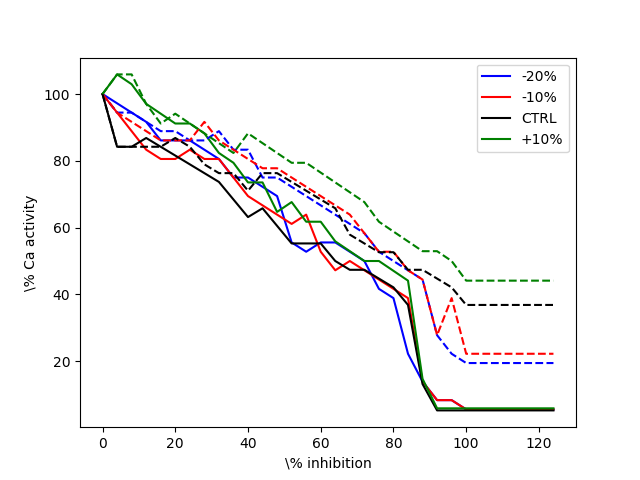
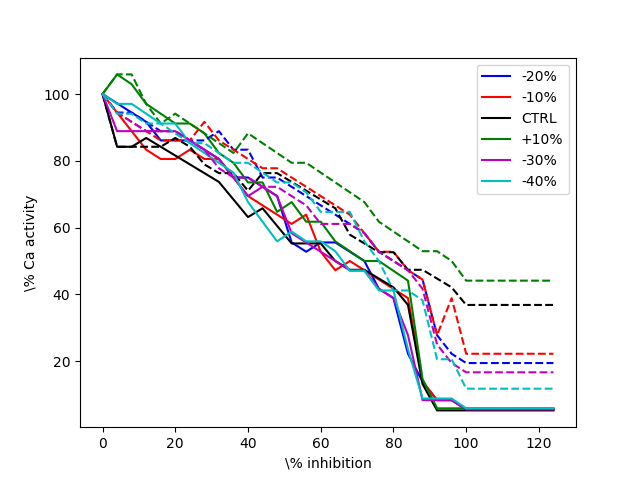
Add -30%, -40% pcaer results

diff --git a/src-test-pcaer/results-big-gj/plot.py b/src-test-pcaer/results-big-gj/plot.py
@@ -11,21 +11,25 @@ colours = {
 	'2': 'r',
 	'3': 'k',
 	'4': 'g',
+	'5': 'm',
+	'6': 'c',
 }
 labels = {
 	'1': '-20%',
 	'2': '-10%',
 	'3': 'CTRL',
 	'4': '+10%',
+	'5': '-30%',
+	'6': '-40%',
 }
 
 for f in files:
     a = np.loadtxt(f)
     a[:, 1] = a[:, 1] / a[0, 1] * 100
     f_id = f[-5]
-    if f[-6] == '2':
+    if f[-6] == '2' or f[-6] == '5':
         plt.plot(a[:, 0], a[:, 1], c=colours[f_id], label=labels[f_id])
-    elif f[-6] == '3':
+    elif f[-6] == '3' or f[-6] == '6':
         plt.plot(a[:, 0], a[:, 1], ls='--', c=colours[f_id])
     else:
         print('Not sure what you are doing!')

diff --git a/src-test-pcaer/results/plot.py b/src-test-pcaer/results/plot.py
@@ -11,12 +11,16 @@ colours = {
 	'2': 'r',
 	'3': 'k',
 	'4': 'g',
+	'5': 'm',
+	'6': 'c',
 }
 labels = {
 	'1': '-20%',
 	'2': '-10%',
 	'3': 'CTRL',
 	'4': '+10%',
+	'5': '-30%',
+	'6': '-40%',
 }
 
 for f in files:
